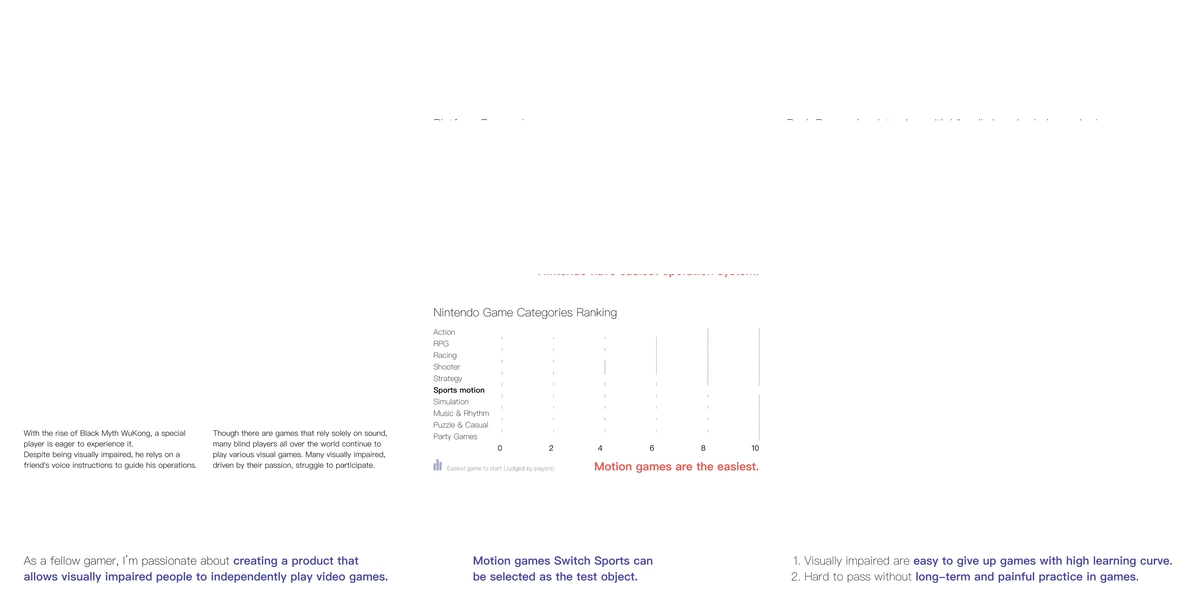
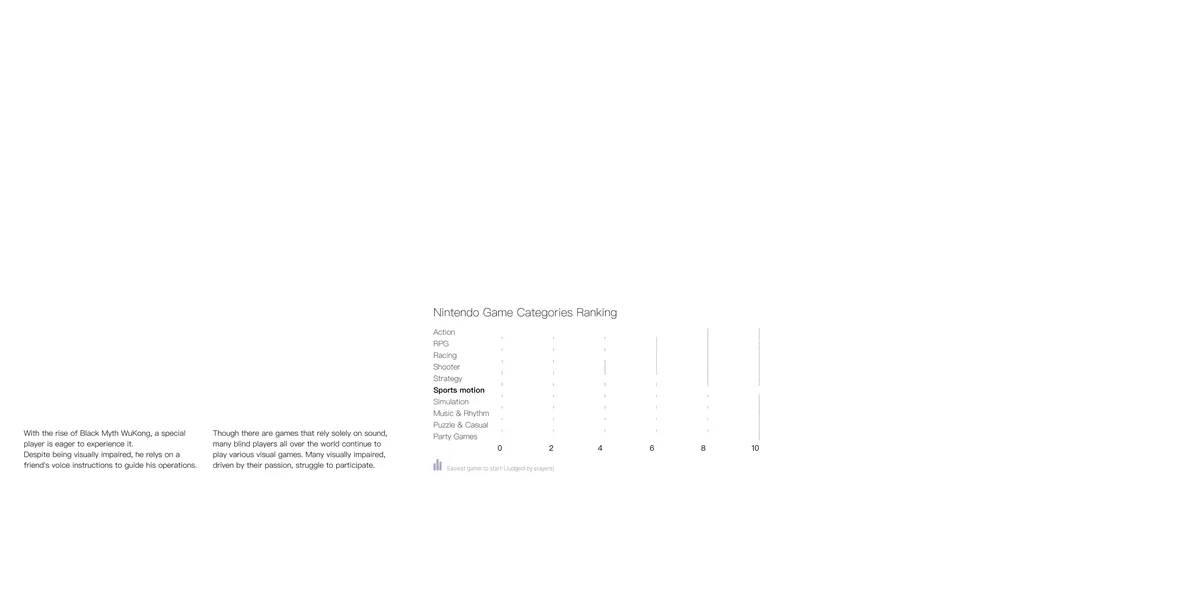
Replace Board 6 baked labels with fading Inter Tight type.
Punch the leftover captions, coral callouts, and Conclusion body out of the plate and the sizes the page actually loads, and place the same wording back as HTML so it fades with the pixel titles.

diff --git a/src/overlayLayout.ts b/src/overlayLayout.ts
@@ -124,6 +124,115 @@ export const board14 = {
   title: { left: 39.3814, top: 50.0097, width: 21.2403, height: 5.4528 },
 } as const
 
+/** Figma frame width. Lengths in cqw track this so type stays locked to the plate. */
+export const frameWidth = 10131.697265625
+
+export function frameLength(px: number) {
+  return `${(px / frameWidth) * 100}cqw`
+}
+
+export type Board6Run = {
+  text: string
+  emphasis?: boolean
+}
+
+/**
+ * Board 6 labels that used to be baked into the plate. Boxes are the Figma
+ * node frames on the 10131.697 × 5135 board, as percentages. Font sizes and
+ * line heights are Figma px on that same frame.
+ */
+export const board6Labels: readonly {
+  id: string
+  box: Box
+  fontSize: number
+  lineHeight: number
+  weight: number
+  color: string
+  lines: readonly (readonly Board6Run[])[]
+}[] = [
+  {
+    id: 'platform-research',
+    box: { left: 36.1243, top: 18.9679, width: 7.9158, height: 2.6095 },
+    fontSize: 102,
+    lineHeight: 134,
+    weight: 400,
+    color: '#111111',
+    lines: [[{ text: 'Platform Research' }]],
+  },
+  {
+    id: 'desk-research',
+    box: { left: 65.5665, top: 18.9679, width: 27.9716, height: 2.6095 },
+    fontSize: 102,
+    lineHeight: 134,
+    weight: 400,
+    color: '#111111',
+    lines: [[{ text: 'Desk Research – Interview with Visually impaired players in Japan' }]],
+  },
+  {
+    id: 'nintendo-easiest',
+    box: { left: 44.8197, top: 43.4275, width: 18.4372, height: 2.2395 },
+    fontSize: 104,
+    lineHeight: 115,
+    weight: 500,
+    color: '#e1504b',
+    lines: [[{ text: 'Nintendo have easiest operation system.' }]],
+  },
+  {
+    id: 'motion-easiest',
+    box: { left: 49.5179, top: 75.5794, width: 13.7391, height: 2.2395 },
+    fontSize: 104,
+    lineHeight: 115,
+    weight: 500,
+    color: '#e1504b',
+    lines: [[{ text: 'Motion games are the easiest.' }]],
+  },
+  {
+    id: 'conclusion-passion',
+    box: { left: 1.9839, top: 90.8861, width: 31.0313, height: 5.2191 },
+    fontSize: 103,
+    lineHeight: 134,
+    weight: 400,
+    color: '#111111',
+    lines: [
+      [
+        { text: 'As a fellow gamer, I’m passionate about ' },
+        { text: 'creating a product that', emphasis: true },
+      ],
+      [{ text: 'allows visually impaired people to independently play video games.', emphasis: true }],
+    ],
+  },
+  {
+    id: 'conclusion-switch',
+    box: { left: 39.411, top: 90.8861, width: 15.2788, height: 5.2191 },
+    fontSize: 103,
+    lineHeight: 134,
+    weight: 400,
+    color: '#111111',
+    lines: [
+      [{ text: 'Motion games Switch Sports can', emphasis: true }],
+      [{ text: 'be selected as the test object.', emphasis: true }],
+    ],
+  },
+  {
+    id: 'conclusion-learning',
+    box: { left: 65.6159, top: 90.8861, width: 32.4131, height: 5.2191 },
+    fontSize: 103,
+    lineHeight: 134,
+    weight: 400,
+    color: '#111111',
+    lines: [
+      [
+        { text: '1. Visually impaired are ' },
+        { text: 'easy to give up games with high learning curve.', emphasis: true },
+      ],
+      [
+        { text: '2. Hard to pass without ' },
+        { text: 'long–term and painful practice in games.', emphasis: true },
+      ],
+    ],
+  },
+]
+
 /**
  * Board 6 pixel titles. Node boxes from the 10131.697 × 5135 frame, mapped
  * onto the 3840 × 1947 plate. Game category and Targret are a few pixels

diff --git a/src/components/FigmaPlate.tsx b/src/components/FigmaPlate.tsx
@@ -6,7 +6,7 @@ import {
   type PlateLayer,
 } from '../boardLayers.ts'
 import { FadeIn } from './FadeIn.tsx'
-import { board6Titles, place } from '../overlayLayout.ts'
+import { board6Labels, board6Titles, frameLength, place } from '../overlayLayout.ts'
 import { plateFractionSizes, plateSizes, responsiveImage } from '../responsiveImage.ts'
 
 const asset = (file: string) => `${import.meta.env.BASE_URL}${file}`
@@ -111,10 +111,35 @@ function Board6Titles() {
   ))
 }
 
+function Board6Labels() {
+  return board6Labels.map((label) => (
+    <FadeIn
+      key={label.id}
+      className="stage-overlay plate-copy"
+      style={{
+        ...place(label.box),
+        fontSize: frameLength(label.fontSize),
+        lineHeight: frameLength(label.lineHeight),
+        fontWeight: label.weight,
+        color: label.color,
+      }}
+    >
+      {label.lines.map((line, lineIndex) => (
+        <span key={lineIndex} className="plate-copy-line">
+          {line.map((run, runIndex) =>
+            run.emphasis ? <em key={runIndex}>{run.text}</em> : <span key={runIndex}>{run.text}</span>,
+          )}
+        </span>
+      ))}
+    </FadeIn>
+  ))
+}
+
 export function Board6Plate() {
   return (
     <HoverPlate dir="board-6" plate="board-6-plate.webp" layers={board6Layers}>
       <Board6Titles />
+      <Board6Labels />
       <CategoryChart />
     </HoverPlate>
   )

diff --git a/src/overlays.css b/src/overlays.css
@@ -44,6 +44,28 @@
 .stage-overlay,
 .stage-layer { z-index: 1; }
 
+/* Board 6 HTML labels sit above hover cards so a card scale cannot cover them. */
+.plate-copy {
+  z-index: 7;
+  margin: 0;
+  pointer-events: none;
+  font-family: var(--sans);
+  font-weight: 400;
+  letter-spacing: 0;
+  color: #111;
+}
+
+.plate-copy-line {
+  display: block;
+  white-space: nowrap;
+}
+
+.plate-copy em {
+  font-style: normal;
+  font-weight: 600;
+  color: #45459c;
+}
+
 .stage-overlay img,
 .fill-img {
   width: 100%;
